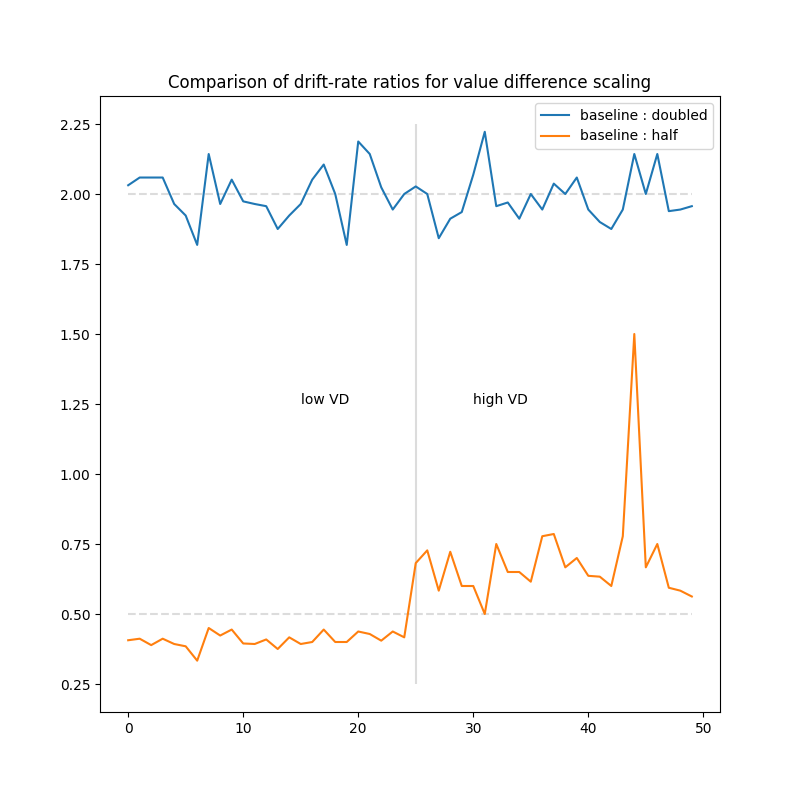
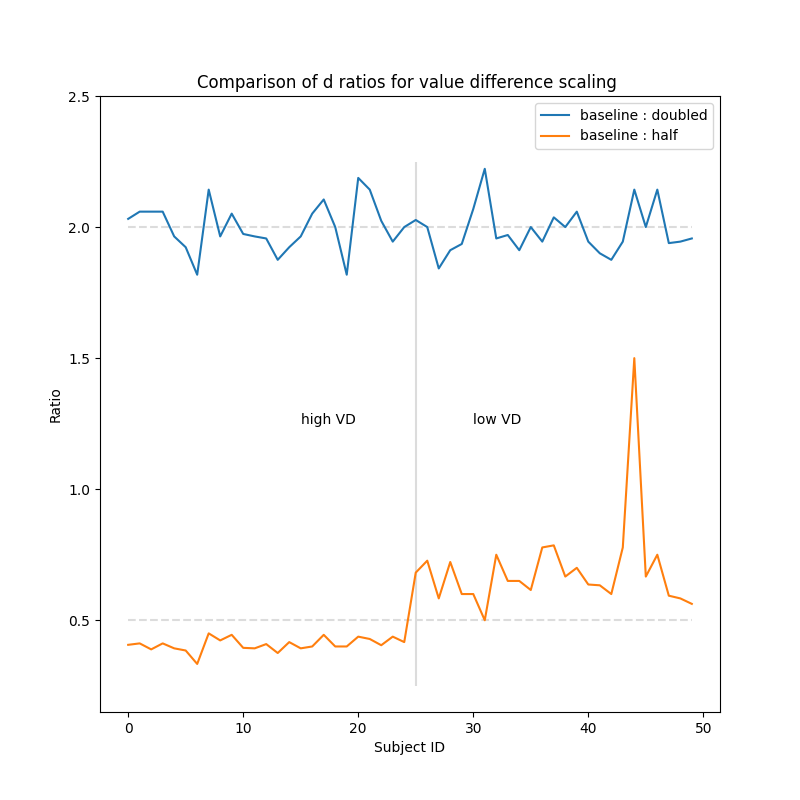
Regenerate ALL figures

diff --git a/Da_data/param_scatter.py b/Da_data/param_scatter.py
@@ -9,7 +9,11 @@ high_vd = "o"
 low_vd = "x"
 
 version = sys.argv[1]
-suffix = sys.argv[2]
+labelPos = sys.argv[2]
+try: 
+    suffix = sys.argv[3]
+except IndexError: 
+    suffix = ""
 
 
 pd1 = pd.read_csv(f"v{version}_output/run_4condi{suffix}.csv")
@@ -30,11 +34,21 @@ plt.scatter(bases[:m], hlvs[:m], label="VD/2 High", zorder=12, color="red", mark
 plt.scatter(bases[m:], hlvs[m:], label="VD/2 Low", zorder=13, color="red", marker=low_vd)
 
 x = np.linspace(0, np.max(bases), 100)
-plt.plot(x, 2 * x, color="darkgrey", zorder=0, label="y=2x")
-plt.plot(x, x / 2, color="darkgrey", zorder=1, label="y=x/2")
+plt.plot(x, 2 * x, color="darkgrey", zorder=0, label="y=2x", lw=3)
+plt.plot(x, x / 2, color="darkgrey", zorder=1, label="y=x/2", lw=3)
+
+zh = np.polyfit(bases[:m], hlvs[:m], 1)
+ph = np.poly1d(zh)
+plt.plot(x, ph(x), color="gainsboro", label=f"y≈{round(ph.coef[0], 2)}x")
+
+zl = np.polyfit(bases[m:], hlvs[m:], 1)
+pl = np.poly1d(zl)
+plt.plot(x, pl(x), color="gainsboro", label=f"y≈{round(pl.coef[0], 2)}x")
 
 lines = plt.gca().get_lines()
-labelLines(lines, align=True, xvals=[0.0044, 0.0044], drop_label=True, color="k")
+labelLines(lines, align=True, xvals=[0.0085] * len(lines), drop_label=True, color='k')
+
+
 
 plt.legend()
 add = ""

diff --git a/Da_data/num_step_sizes.py b/Da_data/num_step_sizes.py
@@ -4,14 +4,18 @@ import matplotlib.pyplot as plt
 import sys
 
 version = sys.argv[1]
-suffix = sys.argv[2]
+
+STEP_SIZE2 = float(sys.argv[2])
+STEP_SIZE05 = float(sys.argv[3])
+
+try: 
+    suffix = sys.argv[4]
+except IndexError: 
+    suffix = ""
 
 pd1 = pd.read_csv(f"v{version}_output/run_4condi{suffix}.csv")
 pd2 = pd.read_csv(f"v{version}_output/run_2{suffix}.csv")
 pd05 = pd.read_csv(f"v{version}_output/run_05{suffix}.csv")
-
-STEP_SIZE2 = float(sys.argv[3])
-STEP_SIZE05 = float(sys.argv[4])
 
 subjects = []
 d2_steps_err = []
@@ -31,7 +35,8 @@ for (i, row), (j, row2), (k, row05) in zip(pd1.iterrows(), pd2.iterrows(), pd05.
         round((row05["d"] - expected_d05) / STEP_SIZE05)
     )
 
-plt.vlines(len(subjects) / 2, -40, 10, "gainsboro")
+plt.vlines(len(subjects) / 2, 1.2 * min(min(d2_steps_err), min(d05_steps_err)), \
+           1.2 * max(max(d2_steps_err), max(d05_steps_err)), "gainsboro")
 plt.plot(subjects, [0] * len(subjects), '--', color="gainsboro")
 
 plt.plot(subjects, d2_steps_err, label="VD*2")

diff --git a/Da_data/compare_ratios.py b/Da_data/compare_ratios.py
@@ -8,7 +8,11 @@ PARAM = sys.argv[1]
 assert PARAM in ["d", "sigma", "theta"]
 
 version = sys.argv[2]
-suffix = sys.argv[3]
+try: 
+    suffix = sys.argv[3]
+except IndexError: 
+    suffix = ""
+
 
 pd1 = pd.read_csv(f"v{version}_output/run_4condi{suffix}.csv")
 pd2 = pd.read_csv(f"v{version}_output/run_2{suffix}.csv")

diff --git a/Da_data/process.py b/Da_data/process.py
@@ -3,7 +3,11 @@ import sys
 
 name = sys.argv[1]
 version = sys.argv[2]
-suffix = sys.argv[3]
+try: 
+    suffix = sys.argv[3]
+except IndexError: 
+    suffix = ""
+
 
 # Define the input and output file paths
 input_file = f"v{version}_output/{name}{suffix}.txt"
